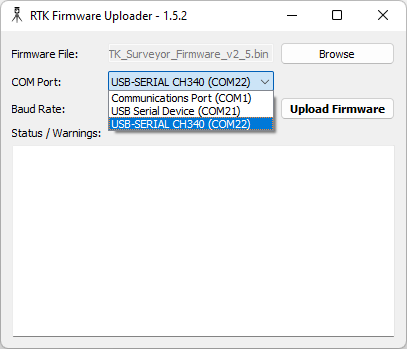
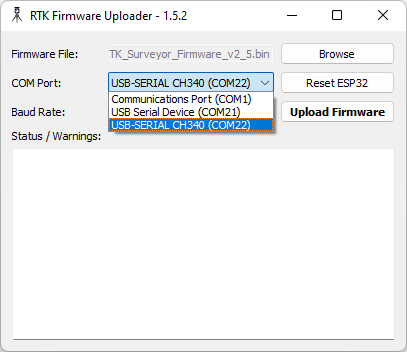
Re-add the reset button

diff --git a/RTK_Firmware_Uploader/RTK_Firmware_Uploader.py b/RTK_Firmware_Uploader/RTK_Firmware_Uploader.py
@@ -152,9 +152,9 @@ class MainWidget(QWidget):
         self.update_com_ports()
         self.port_combobox.popupAboutToBeShown.connect(self.on_port_combobox)
 
-        # # Reset Button
-        # self.reset_btn = QPushButton(self.tr('Reset ESP32'))
-        # self.reset_btn.clicked.connect(self.on_reset_btn_pressed)
+        # Reset Button
+        self.reset_btn = QPushButton(self.tr('Reset ESP32'))
+        self.reset_btn.clicked.connect(self.on_reset_btn_pressed)
 
         # Baudrate Combobox
         self.baud_label = QLabel(self.tr('Baud Rate:'))
@@ -192,7 +192,7 @@ class MainWidget(QWidget):
 
         layout.addWidget(self.port_label, 2, 0)
         layout.addWidget(self.port_combobox, 2, 1)
-        # layout.addWidget(self.reset_btn, 2, 2)
+        layout.addWidget(self.reset_btn, 2, 2)
 
         layout.addWidget(self.baud_label, 3, 0)
         layout.addWidget(self.baud_combobox, 3, 1)
@@ -294,12 +294,12 @@ class MainWidget(QWidget):
 
         # If the upload is finished, trigger a reset
         elif action_type == AUxEsptoolUploadFirmware.ACTION_ID:
-            self.writeMessage("Firmware upload complete. Restarting ESP32...")
-            self.do_restart()
+            self.writeMessage("Firmware upload complete. Resetting ESP32...")
+            self.on_reset_btn_pressed()
 
         # re-enable the UX
         else:
-            self.writeMessage("Restart complete... Please power-on the RTK device.")
+            self.writeMessage("Reset complete...")
             self.disable_interface(False)
 
     # --------------------------------------------------------------
@@ -443,7 +443,7 @@ class MainWidget(QWidget):
     def disable_interface(self, bDisable=False):
 
         self.upload_btn.setDisabled(bDisable)
-        # self.reset_btn.setDisabled(bDisable)
+        self.reset_btn.setDisabled(bDisable)
 
     def on_upload_btn_pressed(self) -> None:
         """Get ready to upload the firmware. First, detect the flash size"""
@@ -554,7 +554,6 @@ class MainWidget(QWidget):
         command.extend(["--chip","esp32"])
         command.extend(["--port",self.port])
         command.extend(["--baud",self.baudRate])
-        #command.extend(["--before","default_reset","--after","hard_reset","write_flash","-z","--flash_mode","dio","--flash_freq","80m","--flash_size","detect"])
         command.extend(["--before","default_reset","--after","no_reset","write_flash","-z","--flash_mode","dio","--flash_freq","80m","--flash_size","detect"])
         command.extend(["0x1000",resource_path("RTK_Surveyor.ino.bootloader.bin")])
         command.extend(["0x8000",thePartitionFileName])
@@ -574,8 +573,8 @@ class MainWidget(QWidget):
 
         self.disable_interface(True) # Redundant... Interface is still disabled from flash detect
 
-    def do_restart(self) -> None:
-        """Tell the ESP32 to restart"""
+    def on_reset_btn_pressed(self) -> None:
+        """Tell the ESP32 to reset/restart"""
         portAvailable = False
         for desc, name, sys in gen_serial_ports():
             if (sys == self.port):
@@ -591,7 +590,7 @@ class MainWidget(QWidget):
             pass
 
         sleep(1.0);
-        self.writeMessage("Restarting ESP32\n")
+        self.writeMessage("Resetting ESP32\n")
 
         # ---- The esptool method -----
 
@@ -609,7 +608,7 @@ class MainWidget(QWidget):
         # Send the job to the worker to process
         self._worker.add_job(theJob)
 
-        self.disable_interface(True) # Redundant... Interface is still disabled from flash detect
+        self.disable_interface(True)
 
 def startUploaderGUI():
     """Start the GUI"""

diff --git a/RTK_Firmware_Uploader/au_act_esptool.py b/RTK_Firmware_Uploader/au_act_esptool.py
@@ -48,7 +48,7 @@ class AUxEsptoolUploadFirmware(AxAction):
 class AUxEsptoolResetESP32(AxAction):
 
     ACTION_ID = "esptool-reset-esp32"
-    NAME = "ESP32 Restart"
+    NAME = "ESP32 Reset"
 
     def __init__(self) -> None:
         super().__init__(self.ACTION_ID, self.NAME)
